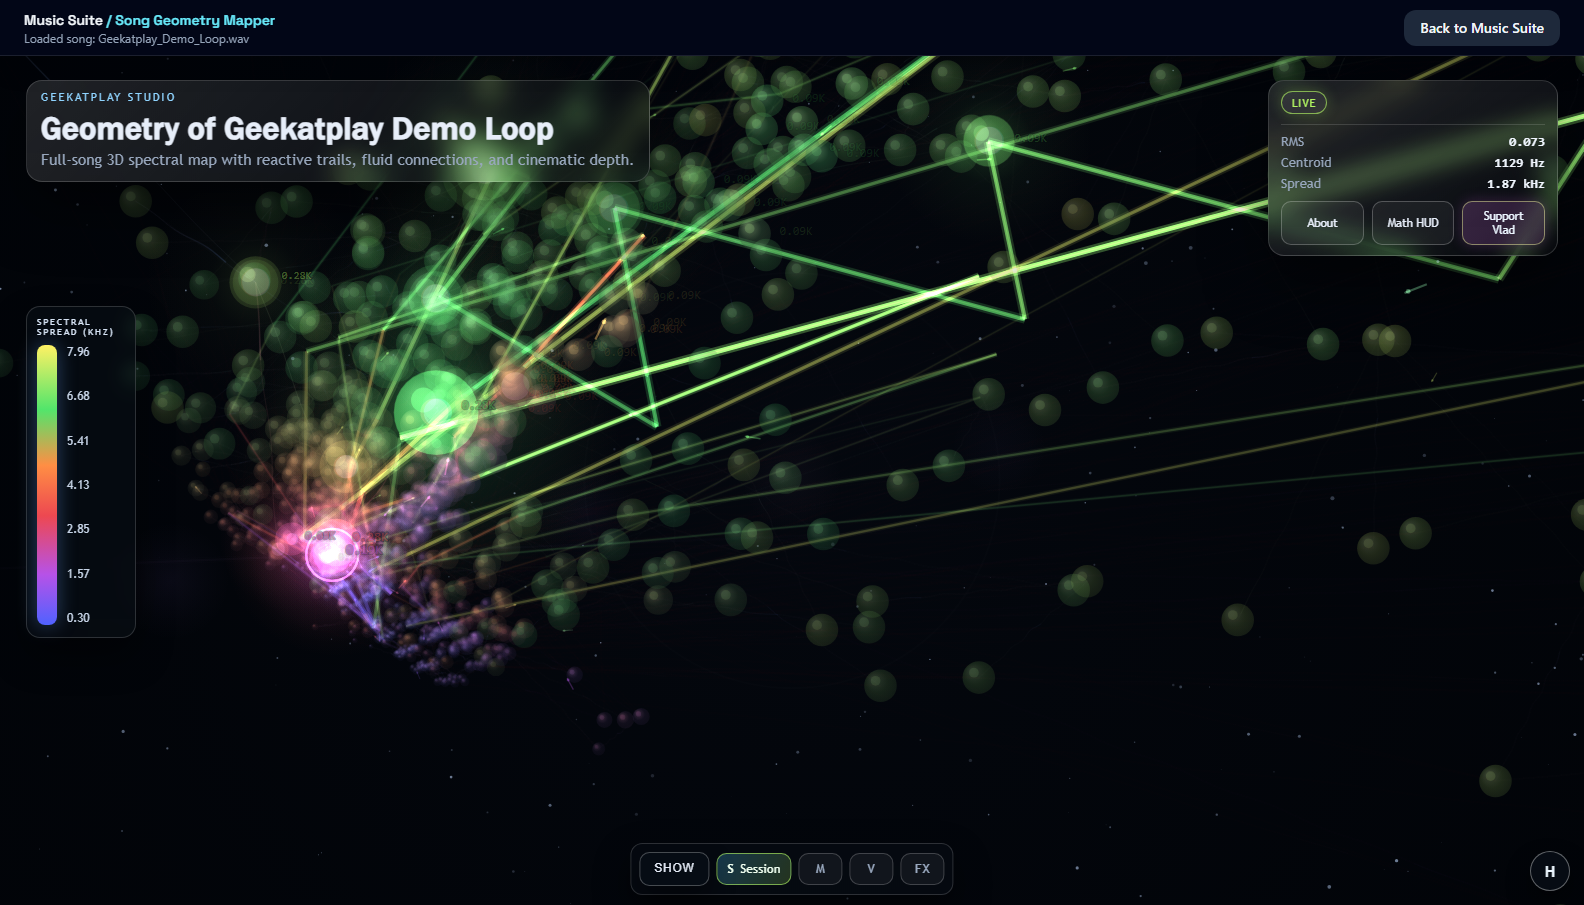
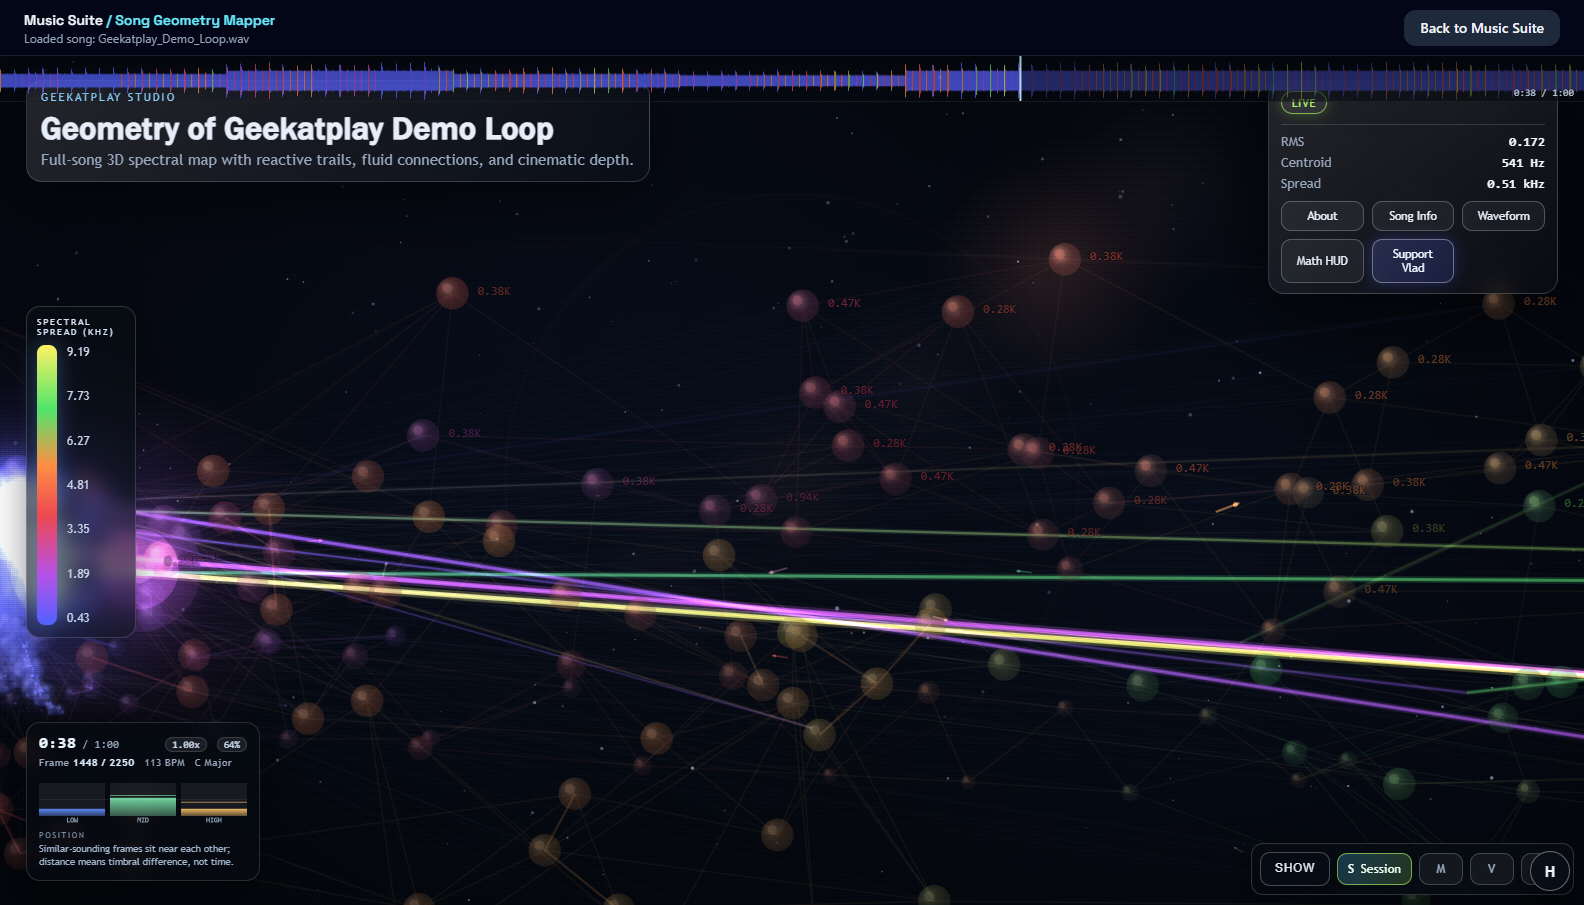
Update the README for the mapper upgrade
The README described the Song Geometry Mapper as "3D geometry with presets,
overlays, exports, and adaptive rendering", which no longer covers what it
does. Adds what changed and refreshes the screenshots, which showed a UI
without the readout, scrubber or structural arcs.

- New hero shot and a second image showing the node inspector, both captured
  from the synthetic demo loop so no third-party audio enters the repository.
- A screenshot section for the mapper, leading with the point that matters:
  every node explains its own position, and tempo and key say "unclear"
  rather than printing a number the data does not support.
- An "Inside the mapper" section covering mapping modes, the temporal
  effects, waveform connections, scene styles, the local style analysis, and
  the camera - plus the fact that none of it uses third-party JavaScript.
- The mapper's own node --test suite added to the validation commands; it was
  part of the gate but was never listed.
- Links the new competitive analysis under further reading.

diff --git a/README.md b/README.md
@@ -15,7 +15,7 @@ Created by **Vladimir Chopine** · [GeekatplayStudio/music-suite](https://github
 
 <img src="docs/images/geometry-mapper.png" alt="Song Geometry Mapper rendering a full-song 3D spectral map" width="100%">
 
-<sub>Song Geometry Mapper — a full-song 3D spectral map with reactive trails and cinematic depth.</sub>
+<sub>Song Geometry Mapper — a full-song 3D spectral map with an always-on readout, a seekable waveform scrubber, and structural arcs linking passages that recur.</sub>
 
 </div>
 
@@ -32,7 +32,8 @@ The former **AudioQI Analyzer** and **Sonic Visual AI** projects now share one c
 | 🎚 **Measure** | Loudness (LUFS), true peak, crest, LRA, stereo correlation, phase, spectrum, and four spectrogram types |
 | 🤖 **Master** | Internal, FFmpeg, Pedalboard, and Matchering paths with marker-aware refinement and rollback |
 | 🌈 **Visualize** | 60 FPS Spectrum, Orbit, and Waveform modes driven by the Web Audio analyser |
-| 🪐 **Map** | Full-song 3D geometry with presets, overlays, exports, and adaptive rendering |
+| 🪐 **Map** | Full-song 3D geometry with tempo and key estimation, structural repeat detection, per-node inspection, presets, overlays, and exports |
+| 🧠 **Describe** | Local Ollama model writes the track's style, always shown beside the description derived from the measurements |
 | 🔌 **Integrate** | Guarded local MCP server, plus optional ComfyUI nodes for music generation |
 | 🔒 **Stay local** | Loopback-only binding, no cloud calls for audio, explicit opt-in for every mutation |
 
@@ -72,6 +73,14 @@ Every suggestion states its reasoning, and the source-aware preflight explains w
 Findings are ranked by severity and tied to concrete time windows rather than generic advice.
 
 <img src="docs/images/markers.png" alt="Remastering recommendations and markers near the playhead" width="100%">
+
+### Song geometry you can read
+
+Every point is one analysis frame. Hover any node for its eight spectral descriptors and a sentence explaining why the active mapping mode placed it at that coordinate — the axes are never left unexplained.
+
+<img src="docs/images/mapper-readout.png" alt="Song Geometry Mapper node inspector showing one frame's descriptors and the reason for its position" width="100%">
+
+The lower-left readout carries elapsed time, playback rate, position, frame index, a low/mid/high band meter, and the estimated tempo and key. **Both estimates carry a confidence and read `unclear` rather than printing a number the data does not support** — tempo comes from autocorrelating the spectral-flux onset envelope, key from Krumhansl-Schmuckler correlation over a long-window chroma.
 
 ### Chart studio
 
@@ -184,6 +193,18 @@ The frontend reaches the selected API through a same-origin streaming proxy, so 
 
 Geometry Mapper runs inside the normal Music Suite web process — Docker and a separate mapper server are not required. Classic analysis runs in the browser; Voice / Deep analysis uses the same loopback FastAPI service and caches under `data/song-mapper`. Optional Demucs stem separation can be enabled with `pip install -e ".[geometry]"`; without it the analyzer falls back to the full mix.
 
+### Inside the mapper
+
+- **Mapping modes** decide how eight descriptors become three coordinates. *Manifold (PCA)* answers "what sounds like what" — distance is timbral difference and time is not an axis. *Time Spine* answers "what happened when". *Hybrid Flow* keeps chronology while pulling repeats together. *Helix Orbit* winds the timeline into a spiral. The About panel and `docs/HELP_GUIDE.md` set out the axes for each.
+- **Time as a visible dimension** — temporal fog that fades by distance from the playhead *in time* rather than from the camera, ghost layers showing where the music was and is heading, a time tube encoding loudness along the trail, and section arcs linking passages that recur.
+- **Connections are waveforms**, not ropes: a fundamental plus partials whose weighting comes from each frame's own spectral flatness, so tonal passages draw near-pure sine and percussive ones draw a dense, ragged wave.
+- **Scene styles** — an X-Ray mode that composites rim outlines additively so dense clouds stay readable, and a colour haze whose hue follows spectral centroid and whose density follows loudness.
+- **AI music style** — with a local Ollama model running, the Session tab describes the track's genre, instrumentation, mood and production. The rule-based description derived from the measurements is always shown too, because a language model will confidently name a genre the numbers do not support. No local model is a normal state, not an error.
+- **Playback 0.05x–2x** on the audio clock, so trails and ribbons keep their shape at every speed and pausing freezes the scene for inspection.
+- **Camera** — scroll to zoom 0.12x–4x, drag to orbit or pan, `F` to frame the whole cloud.
+
+No third-party JavaScript is used anywhere in the mapper: it is vanilla ES modules and Canvas 2D, so it runs offline from a folder with no CDN, no build step, and no supply chain.
+
 ---
 
 ## Safe in-app updates
@@ -264,9 +285,15 @@ pnpm.cmd exec tsc --noEmit
 pnpm.cmd lint
 pnpm.cmd build
 pnpm.cmd audit --prod
+cd public\song-mapper
+node --test "tests/*.test.js"
 ```
 
-Further reading: [Help guide](docs/HELP_GUIDE.md) · [Product requirements](docs/PRD.md) · [Technical requirements](docs/TRD.md) · [References](docs/REFERENCES.md)
+The mapper's own unit tests cover the pure analysis helpers — tempo and key
+estimation, chroma folding, and the visual density maths — including the cases
+where an estimate must be refused rather than guessed.
+
+Further reading: [Help guide](docs/HELP_GUIDE.md) · [Competitive analysis](docs/MAPPER_COMPETITIVE_ANALYSIS.md) · [Product requirements](docs/PRD.md) · [Technical requirements](docs/TRD.md) · [References](docs/REFERENCES.md)
 
 ---
 
